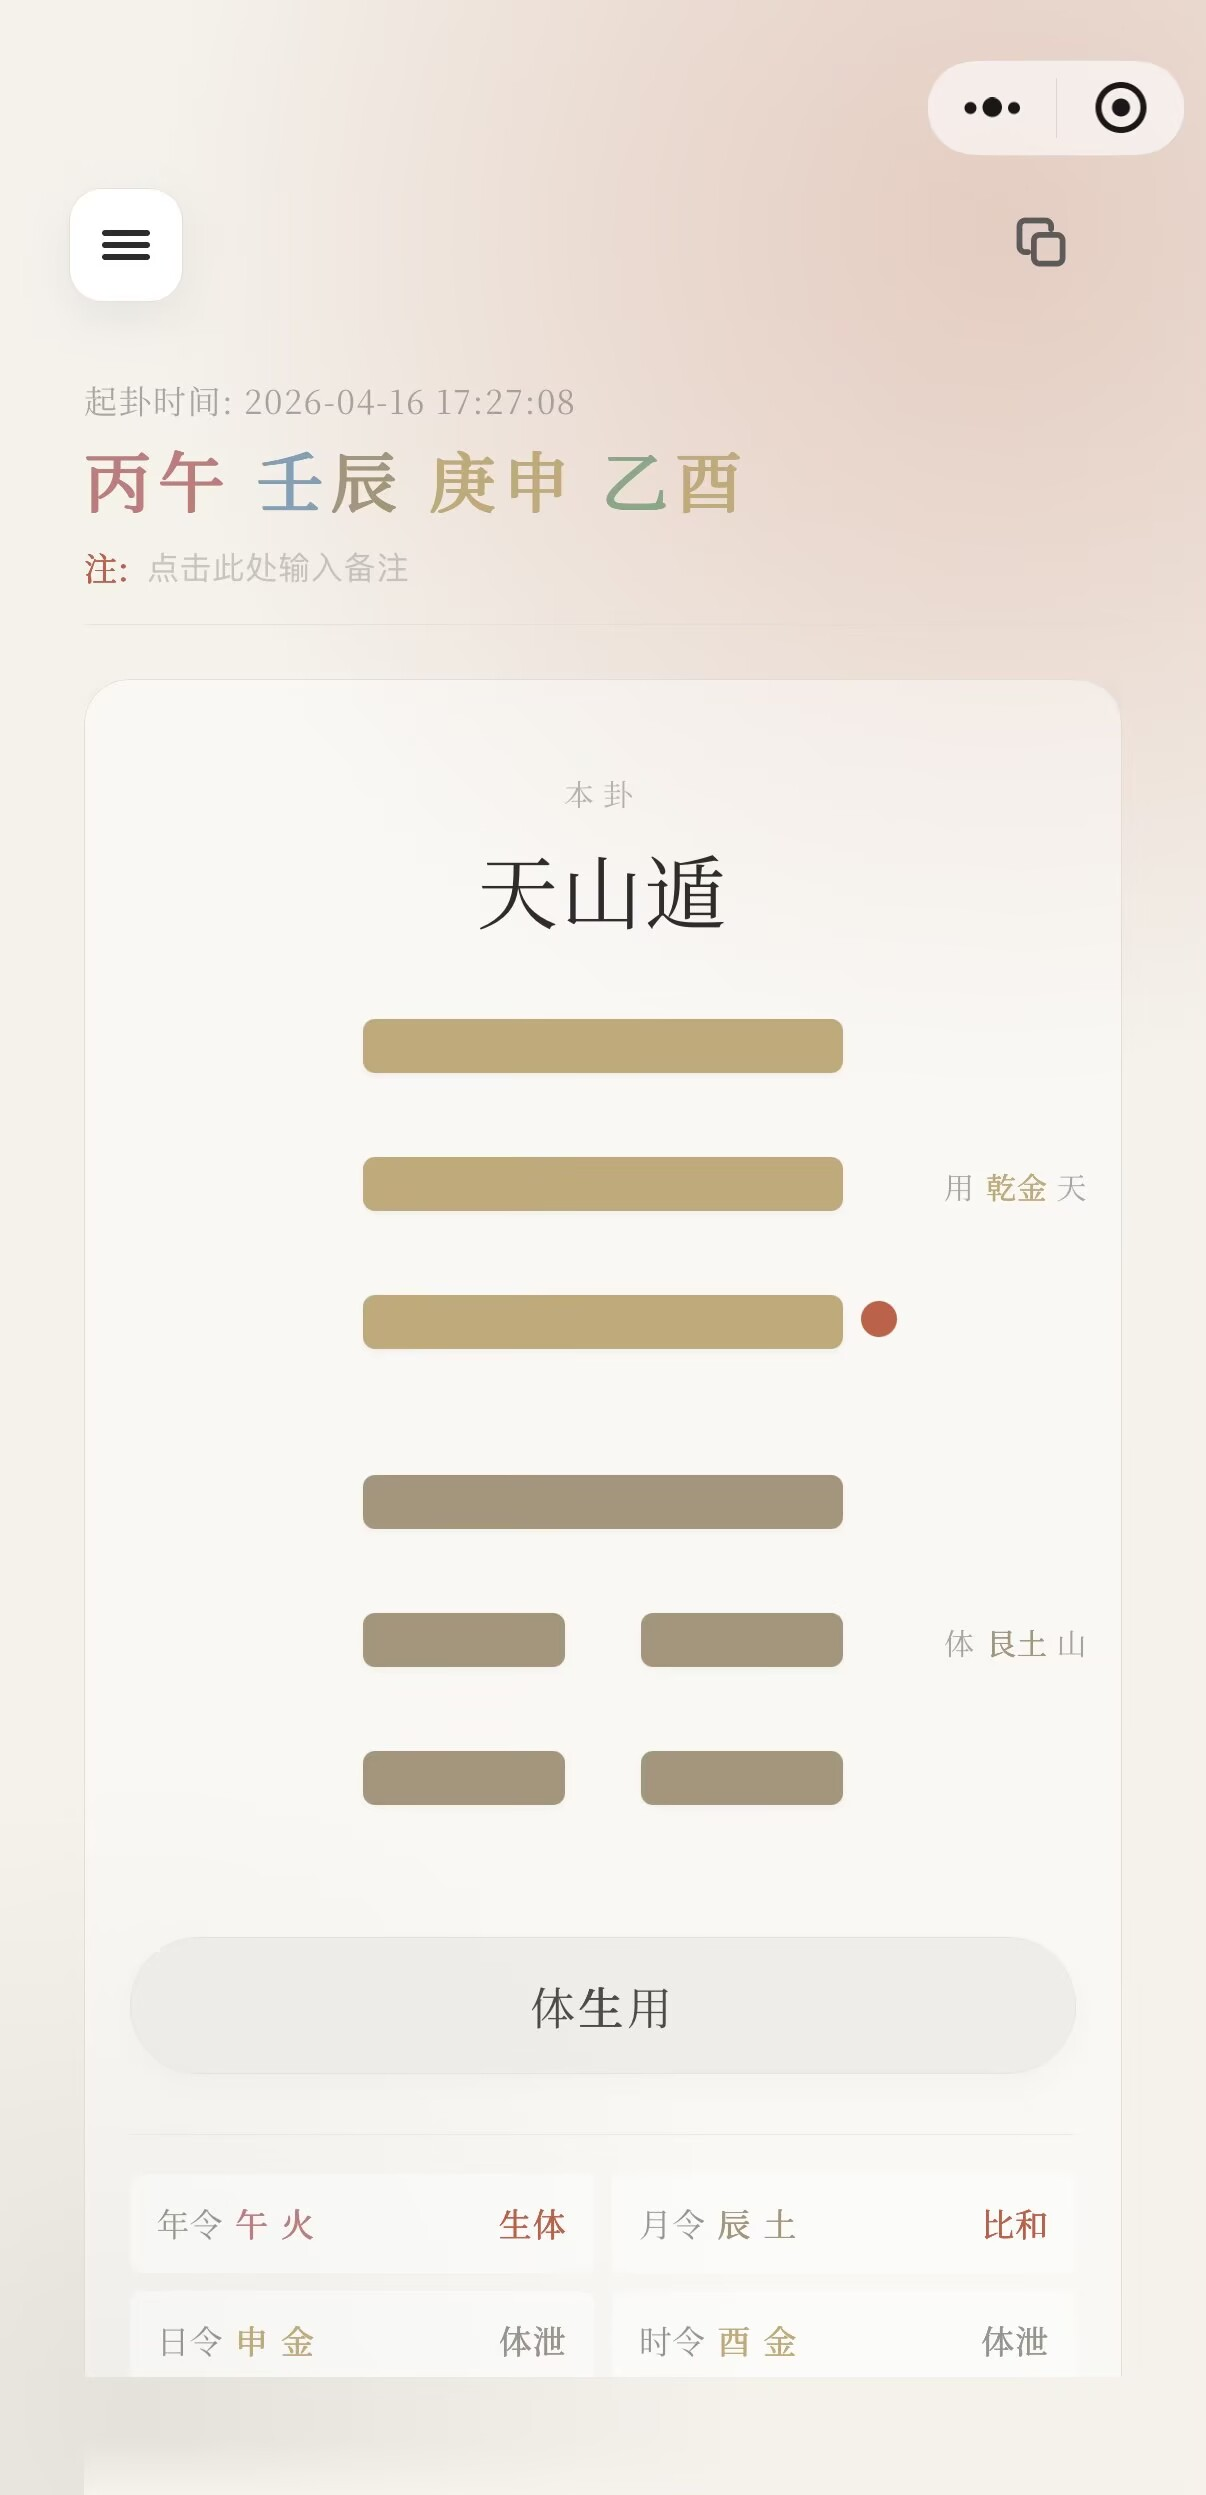
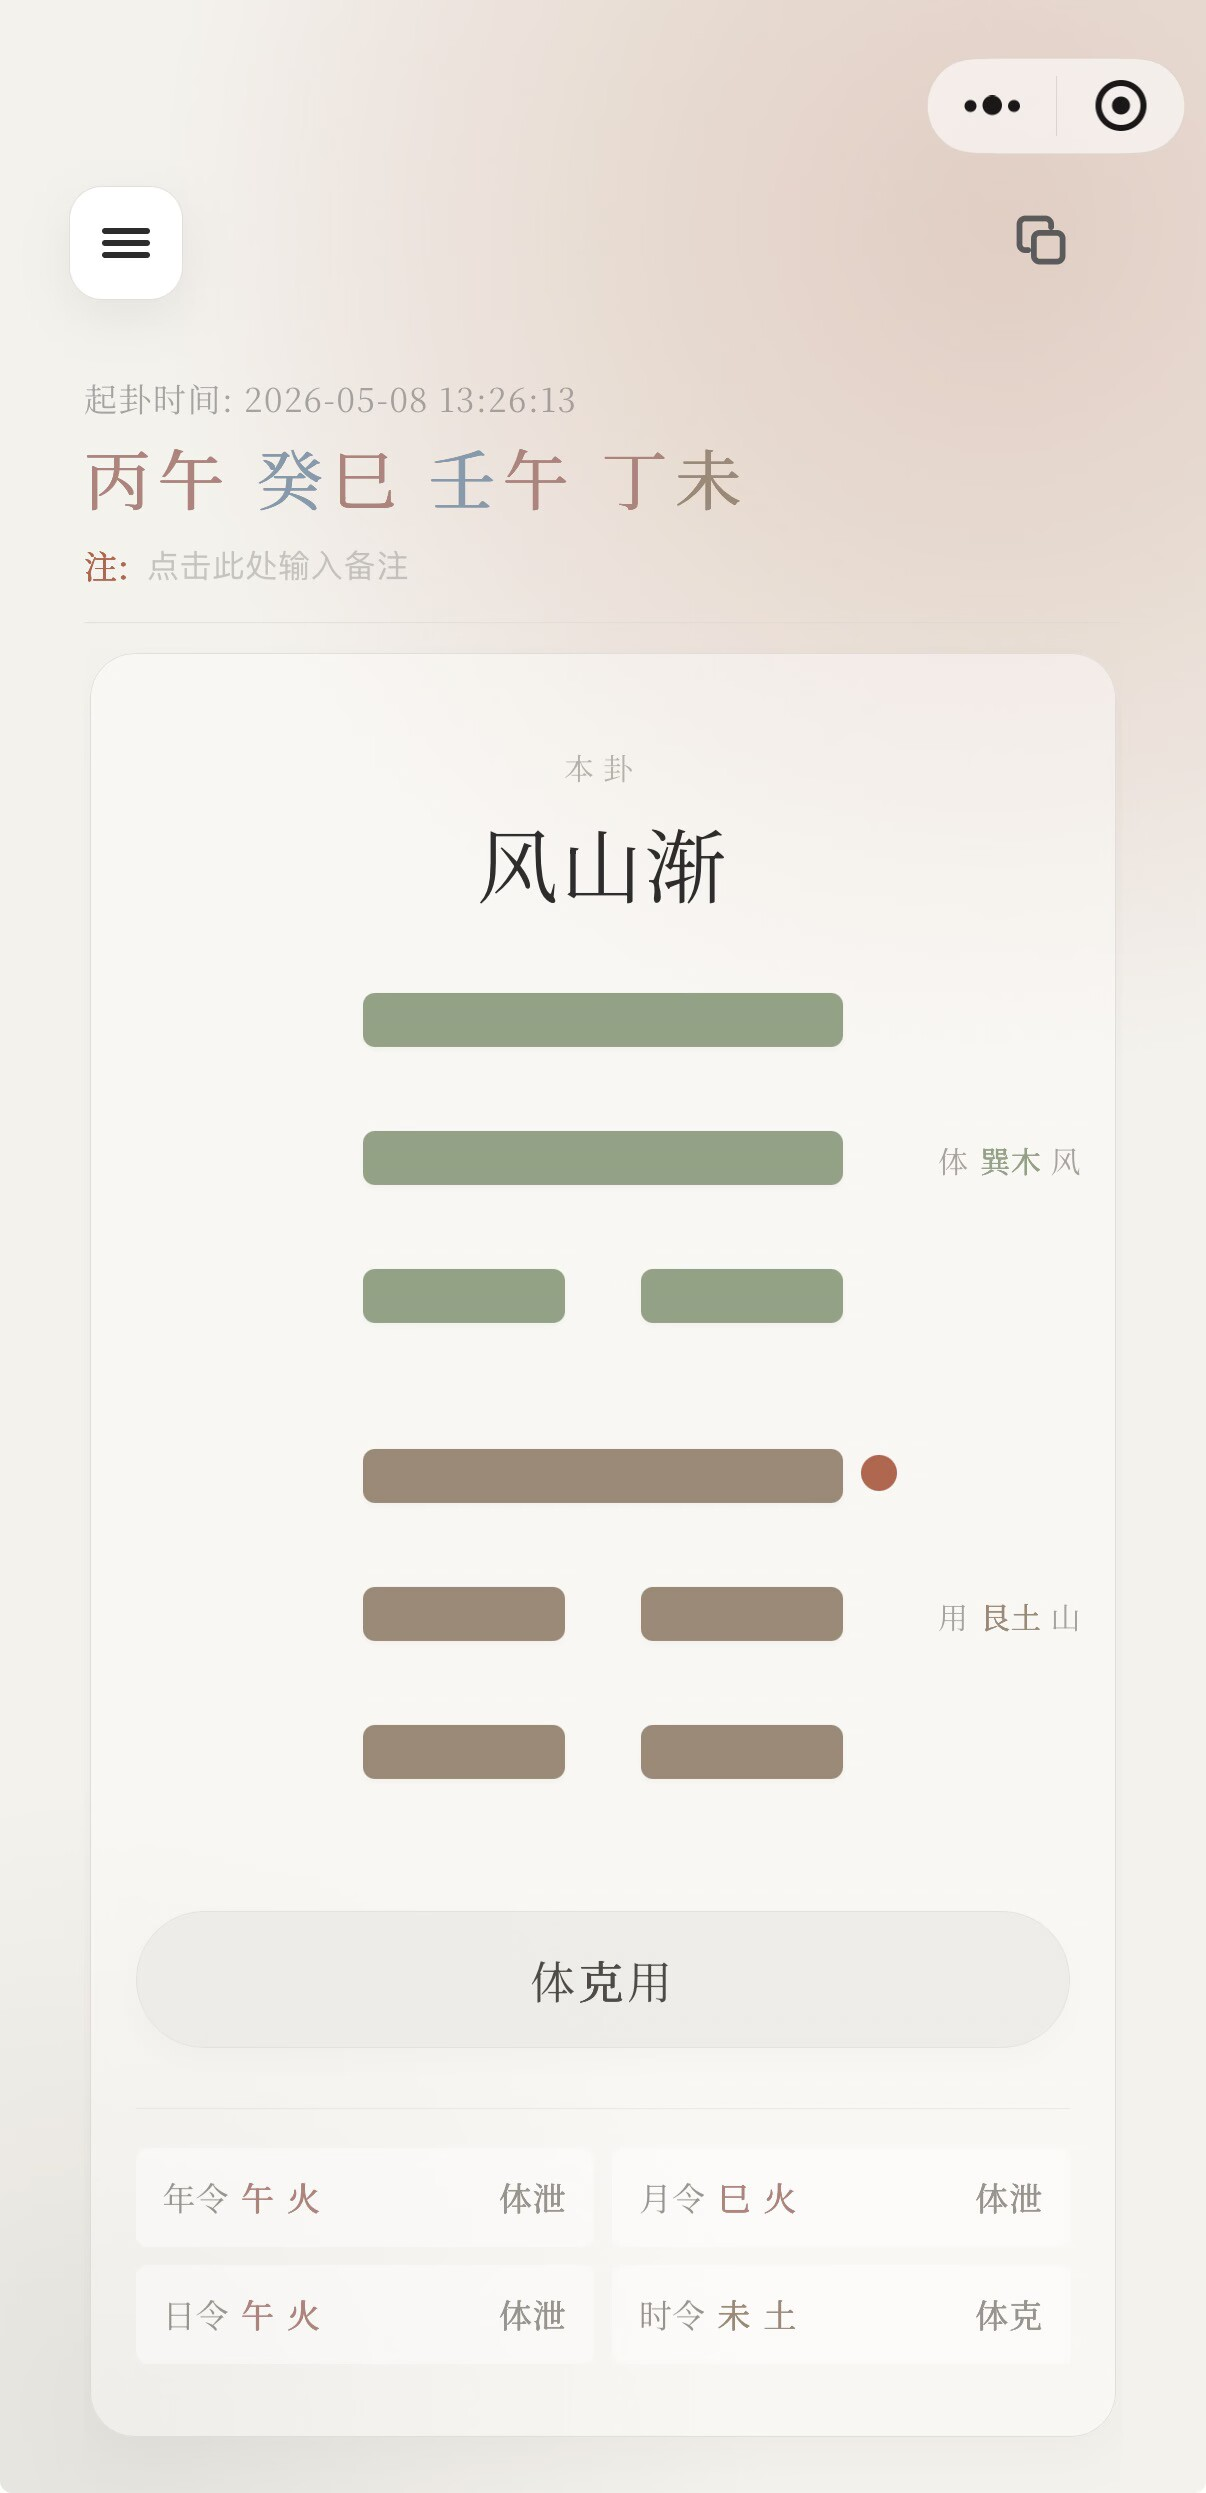
chore: refresh README screenshots

diff --git a/static/js/pages/calendar.js b/static/js/pages/calendar.js
@@ -102,6 +102,18 @@ function onCalPreciseTimeChange(val) {
     state.calendar.calibratedTst = null;
 }
 
+function clearCalendarHour() {
+    state.calendar.preciseTime = null;
+    state.calendar.calibratedTst = null;
+    state.calendar.selectedHour = null;
+    const hourCard = document.getElementById("calendar-hour-pillar");
+    if (hourCard && state.calendar.selectedData) {
+        hourCard.outerHTML = renderCalendarPillar("\u65f6\u67f1", "\u672a\u9009", "\u65f6", "", {clearable: true, id: "calendar-hour-pillar"});
+        return;
+    }
+    renderMain();
+}
+
 async function onCalPreciseTimeBlur(val) {
     if (!val) { await clearPreciseTime(); return; }
     state.calendar.preciseTime = val;
@@ -273,11 +285,20 @@ function renderMonthOptionsHtml(month) {
     return html;
 }
 
-function renderCalendarPillar(label, value, caption = "", extra = "") {
+function renderCalendarPillar(label, value, caption = "", extra = "", options = {}) {
+    const isEmpty = value === "\u672a\u9009";
+    const idAttr = options.id ? `id="${options.id}"` : "";
+    const emptyValue = value.split("").map((char) => `<span class="font-bold text-inkLight/35">${char}</span>`).join("");
+    const clearButton = options.clearable
+        ? `<button type="button" onclick="event.stopPropagation(); clearCalendarHour();" class="w-5 h-5 flex items-center justify-center rounded-full text-inkLight/35 hover:text-accent hover:bg-white/55 transition-colors text-sm leading-none ${isEmpty ? "invisible pointer-events-none" : ""}" aria-label="清空时柱">×</button>`
+        : "";
     return `
-        <div ${extra} class="relative min-w-0 calendar-pillar-card px-5 py-5 flex flex-col justify-between min-h-[160px] h-full ${extra ? "cursor-pointer calendar-pillar-card-interactive group" : ""}">
-            <div class="text-[11px] text-inkLight tracking-[0.22em]">${label}</div>
-            <div class="text-3xl font-serif tracking-widest leading-none ${value === "\u672a\u9009" ? "text-inkLight/35" : ""}">${value === "\u672a\u9009" ? value : highlightText(value)}</div>
+        <div ${idAttr} ${extra} class="relative min-w-0 calendar-pillar-card px-5 py-5 flex flex-col justify-between min-h-[160px] h-full ${extra ? "cursor-pointer calendar-pillar-card-interactive group" : ""}">
+            <div class="flex items-center justify-between gap-2">
+                <div class="text-[11px] text-inkLight tracking-[0.22em]">${label}</div>
+                ${clearButton}
+            </div>
+            <div class="h-9 flex items-center justify-center text-3xl font-serif tracking-widest leading-none">${isEmpty ? emptyValue : highlightText(value)}</div>
             <div class="text-xs text-inkLight">${caption}</div>
             ${extra ? `<div class="absolute top-3 right-3 text-inkLight/35 group-hover:text-accent transition-colors"><svg width="12" height="12" viewBox="0 0 24 24" fill="none" stroke="currentColor" stroke-width="2.4" stroke-linecap="round" stroke-linejoin="round"><polyline points="6 9 12 15 18 9"></polyline></svg></div>` : ""}
         </div>`;
@@ -303,7 +324,7 @@ function renderRightPanelHtml(info) {
     // Hour pillar \u2014 static, same as the other three
     const calibratedTst = state.calendar.calibratedTst;
     const hourVal = ((preciseTime || calibratedTst) && info.gz_hour) ? info.gz_hour : "\u672a\u9009";
-    const hourCap = ((preciseTime || calibratedTst) && info.gz_hour) ? `时 ${calibratedTst || info.true_solar_time || preciseTime}` : "";
+    const hourCap = ((preciseTime || calibratedTst) && info.gz_hour) ? `时 ${calibratedTst || info.true_solar_time || preciseTime}` : "\u65f6";
 
     return `
     <div class="h-full calendar-main-card p-9 grid grid-rows-[auto_1px_1fr] gap-0">
@@ -343,7 +364,7 @@ function renderRightPanelHtml(info) {
                 ${renderCalendarPillar("\u5e74\u67f1", info.gz_year, "\u5e74")}
                 ${renderCalendarPillar("\u6708\u67f1", info.gz_month, "\u6708")}
                 ${renderCalendarPillar("\u65e5\u67f1", info.gz_day, "\u65e5")}
-                ${renderCalendarPillar("\u65f6\u67f1", hourVal, hourCap)}
+                ${renderCalendarPillar("\u65f6\u67f1", hourVal, hourCap, "", {clearable: true, id: "calendar-hour-pillar"})}
             </div>
             ${info.jieqi_prev ? `
             <div class="flex items-center justify-end gap-2 text-[11px] text-inkLight/55 mt-5">
